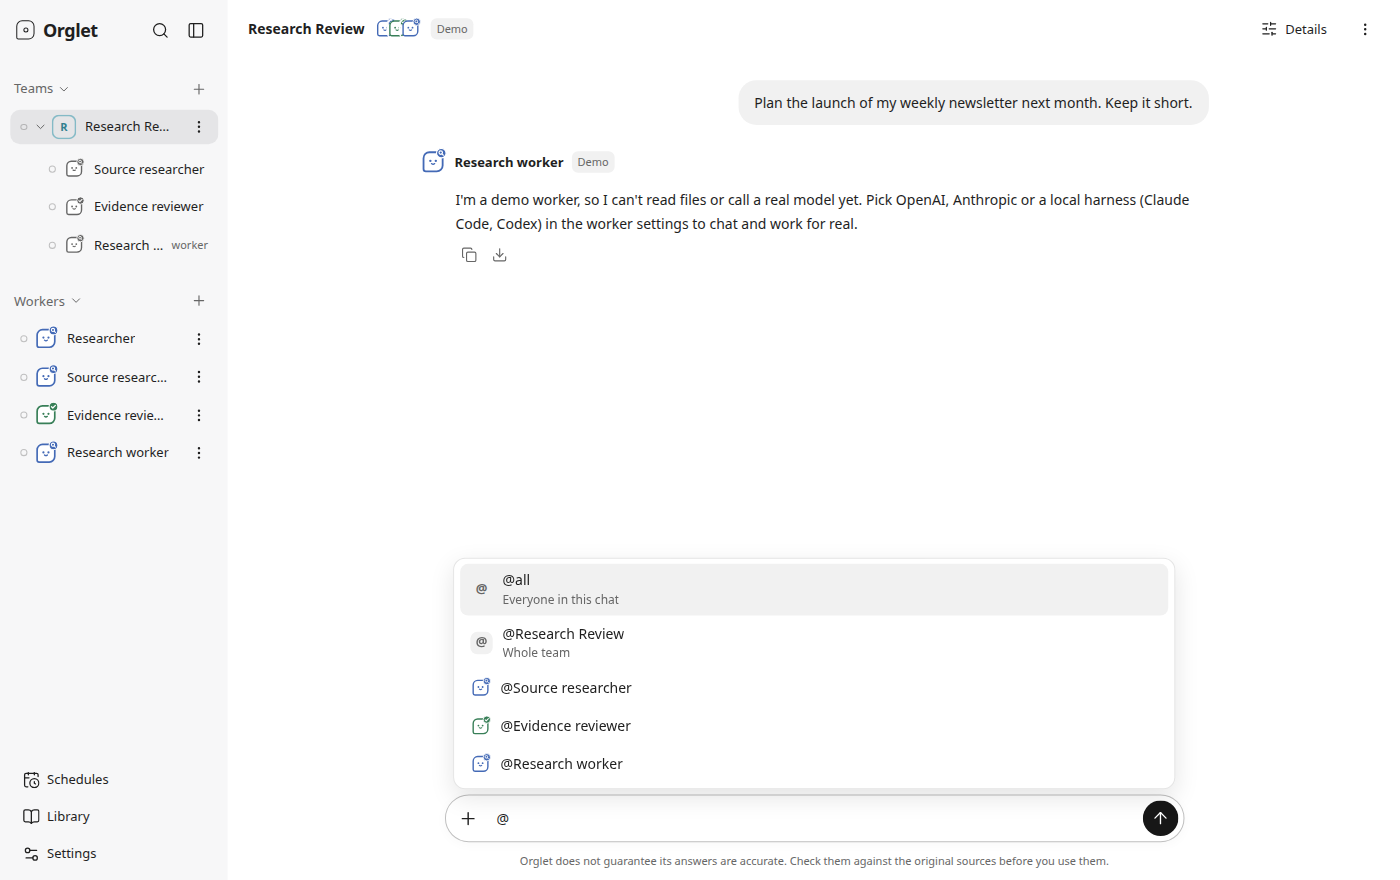
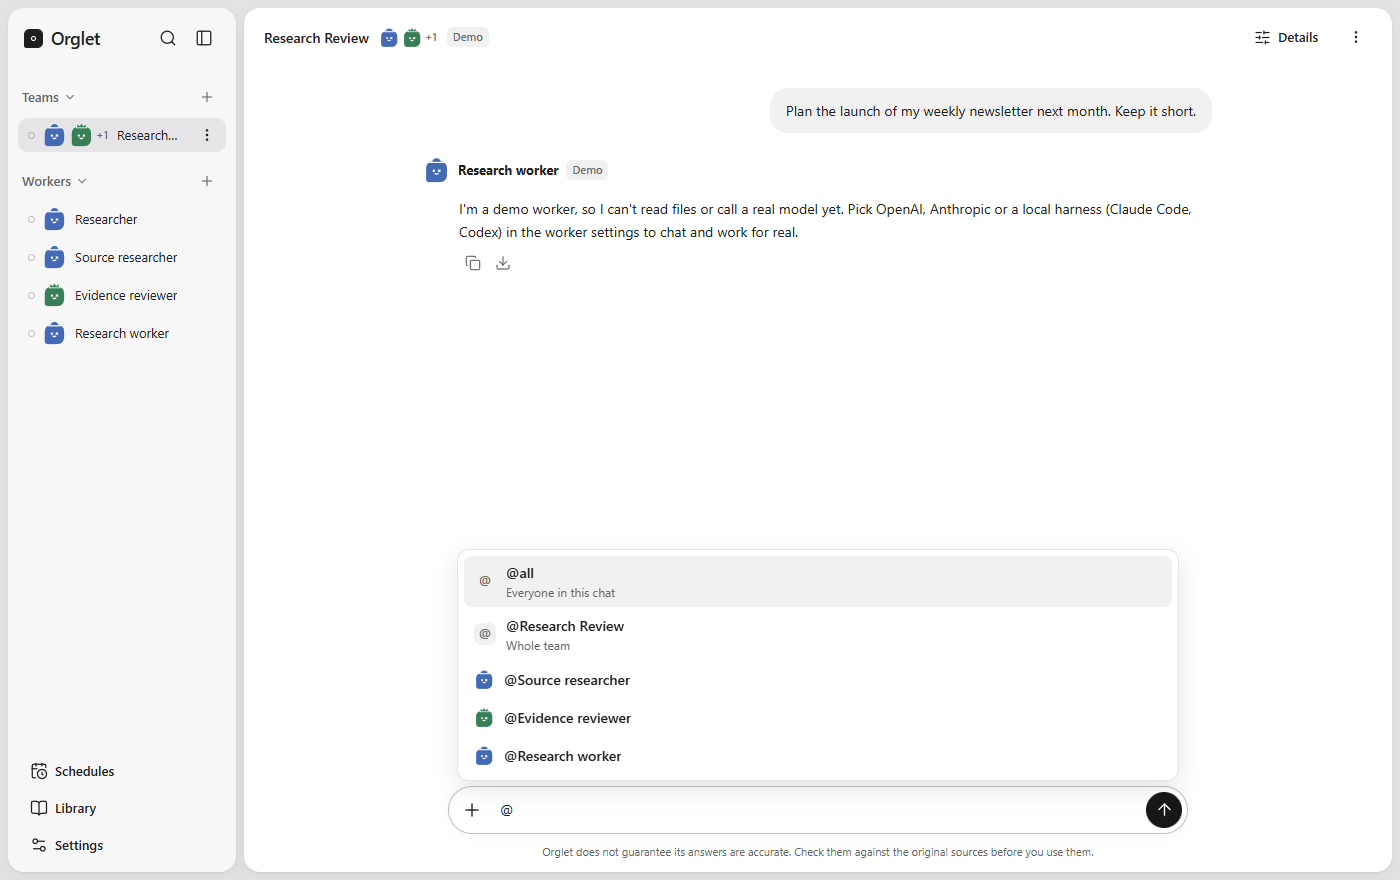
COD-42: refresh the README screenshots for the new shell
The images still showed the old flush-edge layout and the badge avatars.
Recaptured all four from a fresh package of main.

Capturing them also showed the empty-chat starters sitting left-aligned
under a centred greeting, so the block is centred now and only its text
stays left.

diff --git a/apps/desktop/src/renderer/styles.css b/apps/desktop/src/renderer/styles.css
@@ -196,7 +196,8 @@ svg { flex-shrink:0; stroke-width:1.7; }
 /* Thread: the prompt bar stays pinned under the conversation. */
 .thread-composer { width:100%; max-width:780px; margin:0 auto; padding:8px var(--page-x) 0; }
 .team-chat { flex:1; min-height:0; display:flex; flex-direction:column; }
-.team-chat-empty .suggestions { width:min(100%, 440px); margin:12px 0 0; padding:0; text-align:left; }
+/* The starters sit under a centred greeting, so the block is centred too and only its text stays left. */
+.team-chat-empty .suggestions { width:min(100%, 440px); margin:12px auto 0; padding:0; text-align:left; }
 .thread-menu { flex-shrink:0; }
 .topbar-roster { flex-shrink:0; }
 .tree-leaf.roster { cursor:default; }
